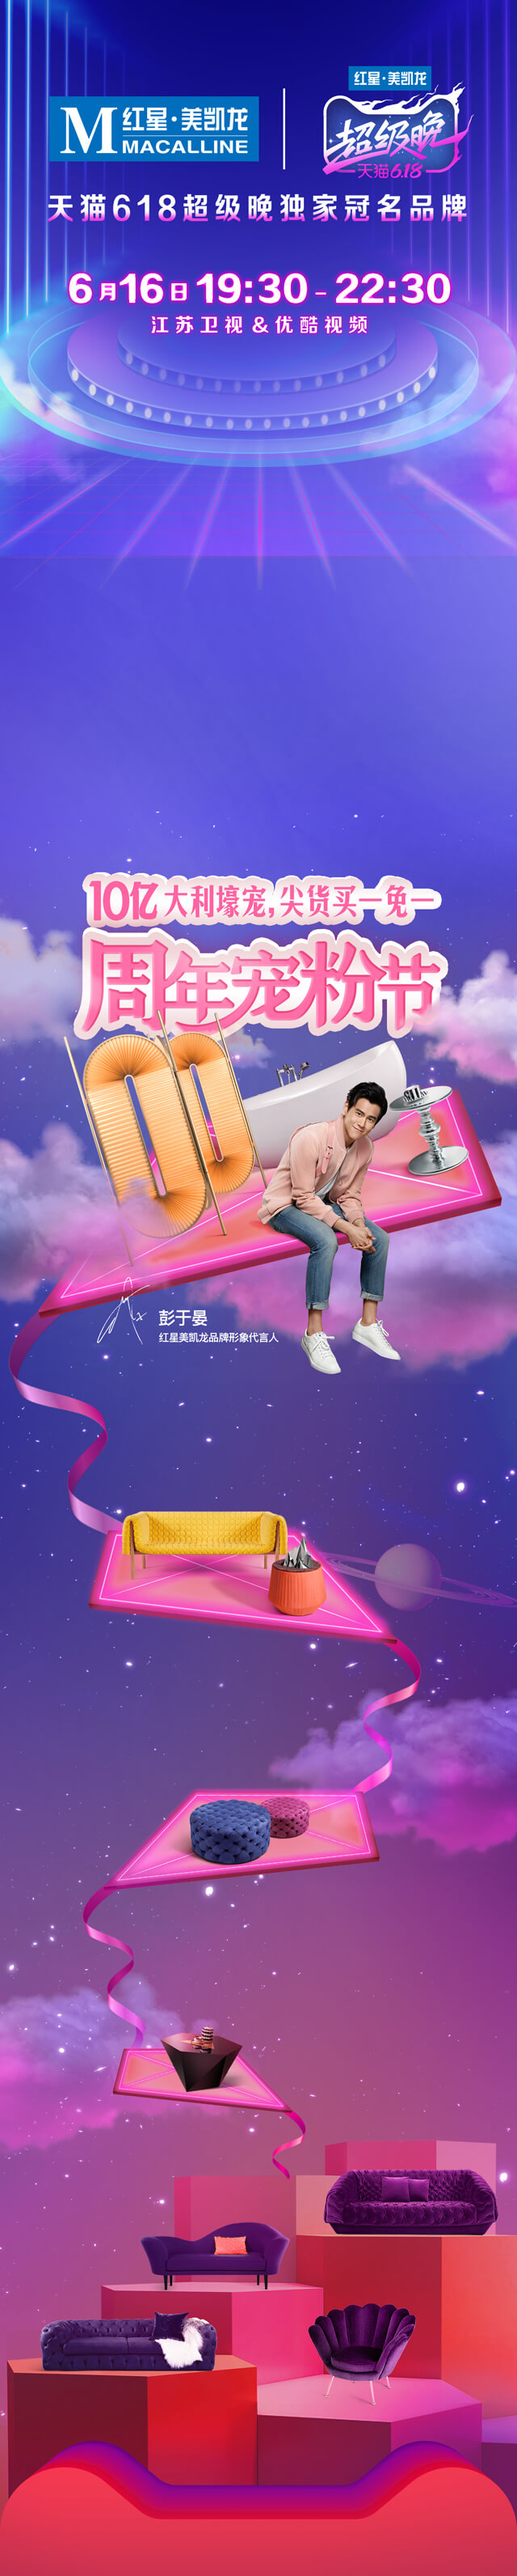
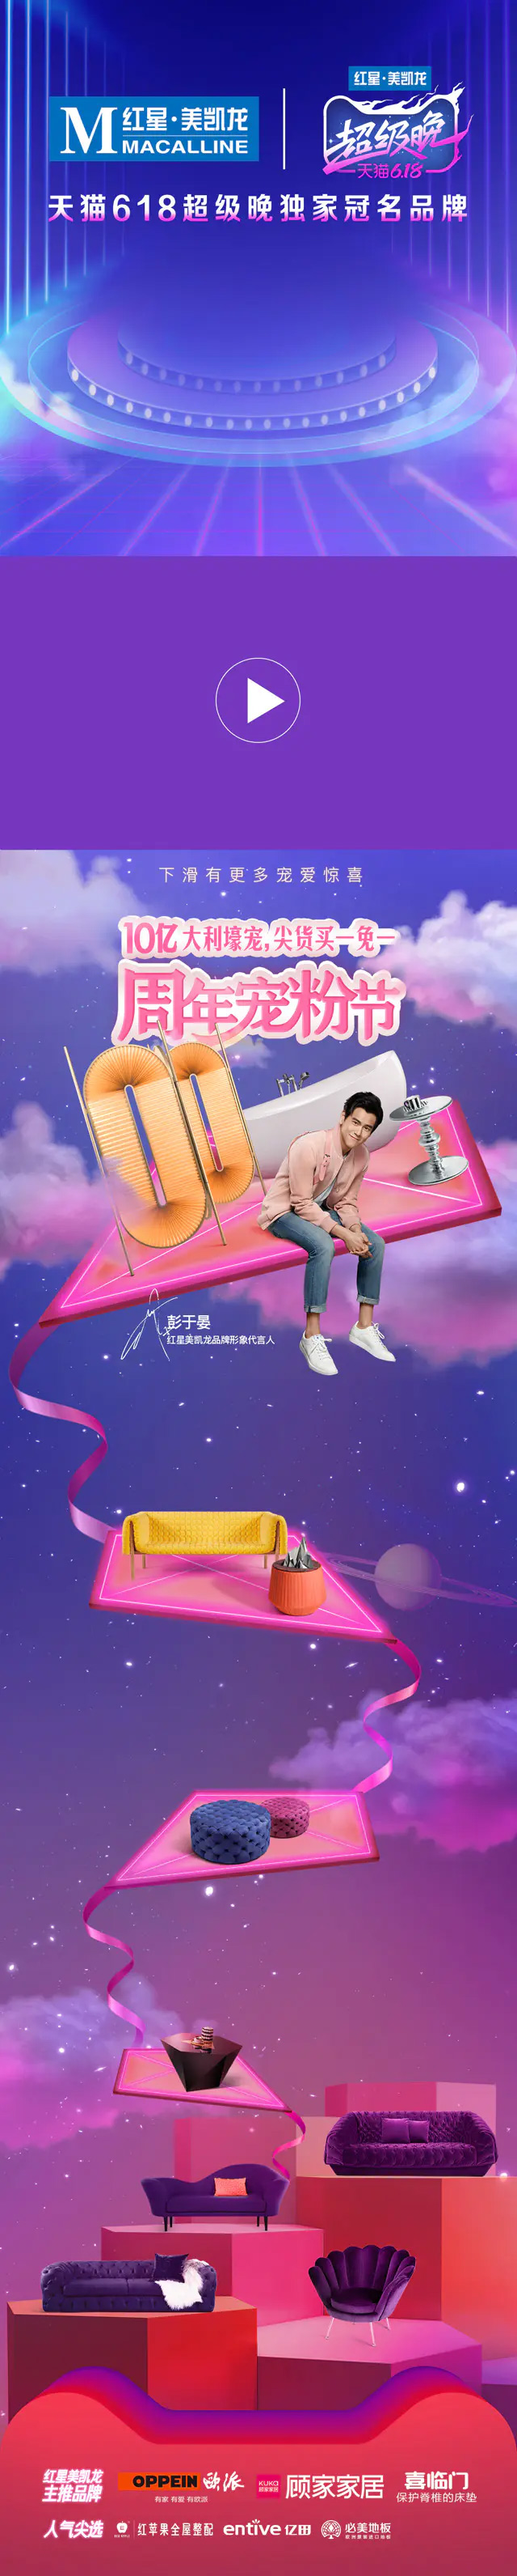
page3 更新图片，非最终版

diff --git a/meikailongPage3/css/info.css b/meikailongPage3/css/info.css
@@ -32,12 +32,12 @@ html .wap-wrap {width:481px;margin:0 auto}
 .pi{ position: absolute;}
 .p01{ top: .59rem; left:0.97rem; width: 5.55rem;}
 .p02{ top: 2.05rem; left:1.97rem; width: 3.4rem;animation: puffIn 1s ease 0s 1 normal both running;}
-.p03{ top: 5.35rem; left:0.4rem; width: 6.7rem; }
+.p03{ top: 3.75rem; left:0.9rem; width: 5.7rem; }
 .p04{ top: 7.95rem; left:0; width: 100%; }
 .p05{ top: 19.25rem; left:0.19rem;  width: 7.1rem; animation: flash 2.9s ease 0.5s infinite normal both running;}
 .p06{ top: 20.03rem; left:0.36rem;  width: 6.7rem;z-index: 10;}
 .p07{ top: 20.35rem; right:0.56rem;  width: 4.7rem; z-index: 15; }
-.p10{ top: 20.35rem; right:0.56rem;  width: 4.25rem; z-index: 15;  animation: flash 2.2s ease 0.5s infinite normal both running;}
+.p10{ top: 20.34rem; right:0.53rem;  width: 4.67rem; z-index: 15;  animation: flash 2.2s ease 0.5s infinite normal both running;}
 .p08{ top: 23.95rem; left:0.36rem;  width: 6.7rem; z-index: 10;}
 .p09{ top: 27.45rem; left:0.36rem;  width: 6.7rem; z-index: 10;}
 .p11{ top: 20.05rem; left:0.59rem;  width: 1.45rem; z-index: 10;animation: rotateIn 2s linear 0s infinite normal both running;}

diff --git a/meikailongPage3/index.php b/meikailongPage3/index.php
@@ -39,7 +39,7 @@ $signPackage = $jssdk->GetSignPackage();
         <img src="./images/p11.jpg" class='bodybg'>
         <!-- <img class='pi p01' src="./images/p10.png"> -->
         <!-- <img class='pi p02' src="./images/p01.png"> -->
-        <!-- <img class='pi p03' src="./images/p02.png"> -->
+        <img class='pi p03' src="./images/p02.png">
         <img class='pi p04' src="./images/p03.png">
         <img class='pi p05' src="./images/p08.png">
         <img class='pi p06' src="./images/p09.png">
